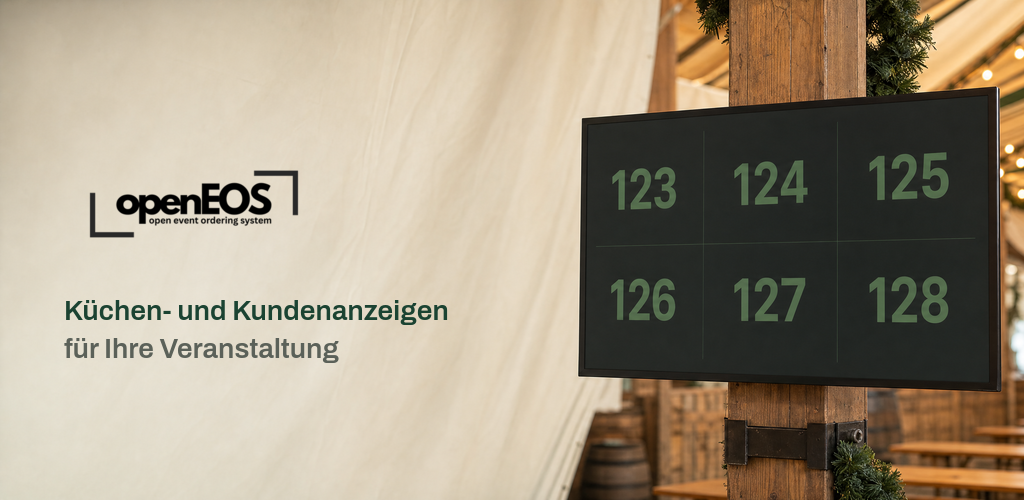
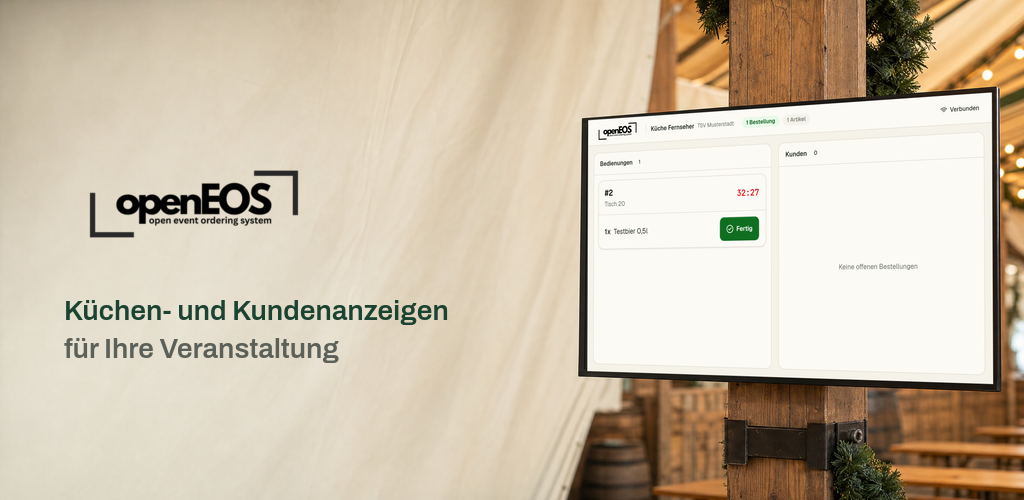
fix: show the real interface on the feature graphic too
The screen in the tent was still displaying invented order numbers in a
grid the app never draws. Play permits a styled feature graphic, but a
reviewer comparing it against the screenshots would see two different
products, so the real capture is mapped in there as well.

No store asset now shows an interface that does not exist.

Changed region(s): [[0.5625, 0.18, 0.9688, 0.78]]

diff --git a/store/PLAY-TEXTE.md b/store/PLAY-TEXTE.md
@@ -265,11 +265,10 @@ liegen als Quellen unter `store/roh/`. Logo und Schrift sind **nicht**
 erzeugt, sondern aus den echten Markenassets gesetzt — erzeugte Schrift und
 erzeugte Logos werden unweigerlich falsch.
 
-Auf `marketing-kueche-1920x1080.jpg` ist in den Bildschirm der echte
-Screenshot perspektivisch eingesetzt. Auf der Feature-Grafik zeigt der
-Bildschirm dagegen erzeugte Bestellnummern — das ist zulässig, weil es eine
-Marketing-Grafik ist und keine Bildschirmaufnahme. Wer strenger sein will,
-tauscht auch dort den echten Screenshot ein.
+Auf der Feature-Grafik und auf `marketing-kueche-1920x1080.jpg` ist in den
+Bildschirm jeweils der echte Screenshot perspektivisch eingerechnet. Damit
+zeigt **kein** Store-Asset eine erfundene Oberfläche — auch dort nicht, wo
+Play es erlauben würde.
 
 > **Screenshots müssen die echte App zeigen.** Erzeugte oder nachgebaute
 > Oberflächen fallen unter „irreführende Darstellung" und sind ein
